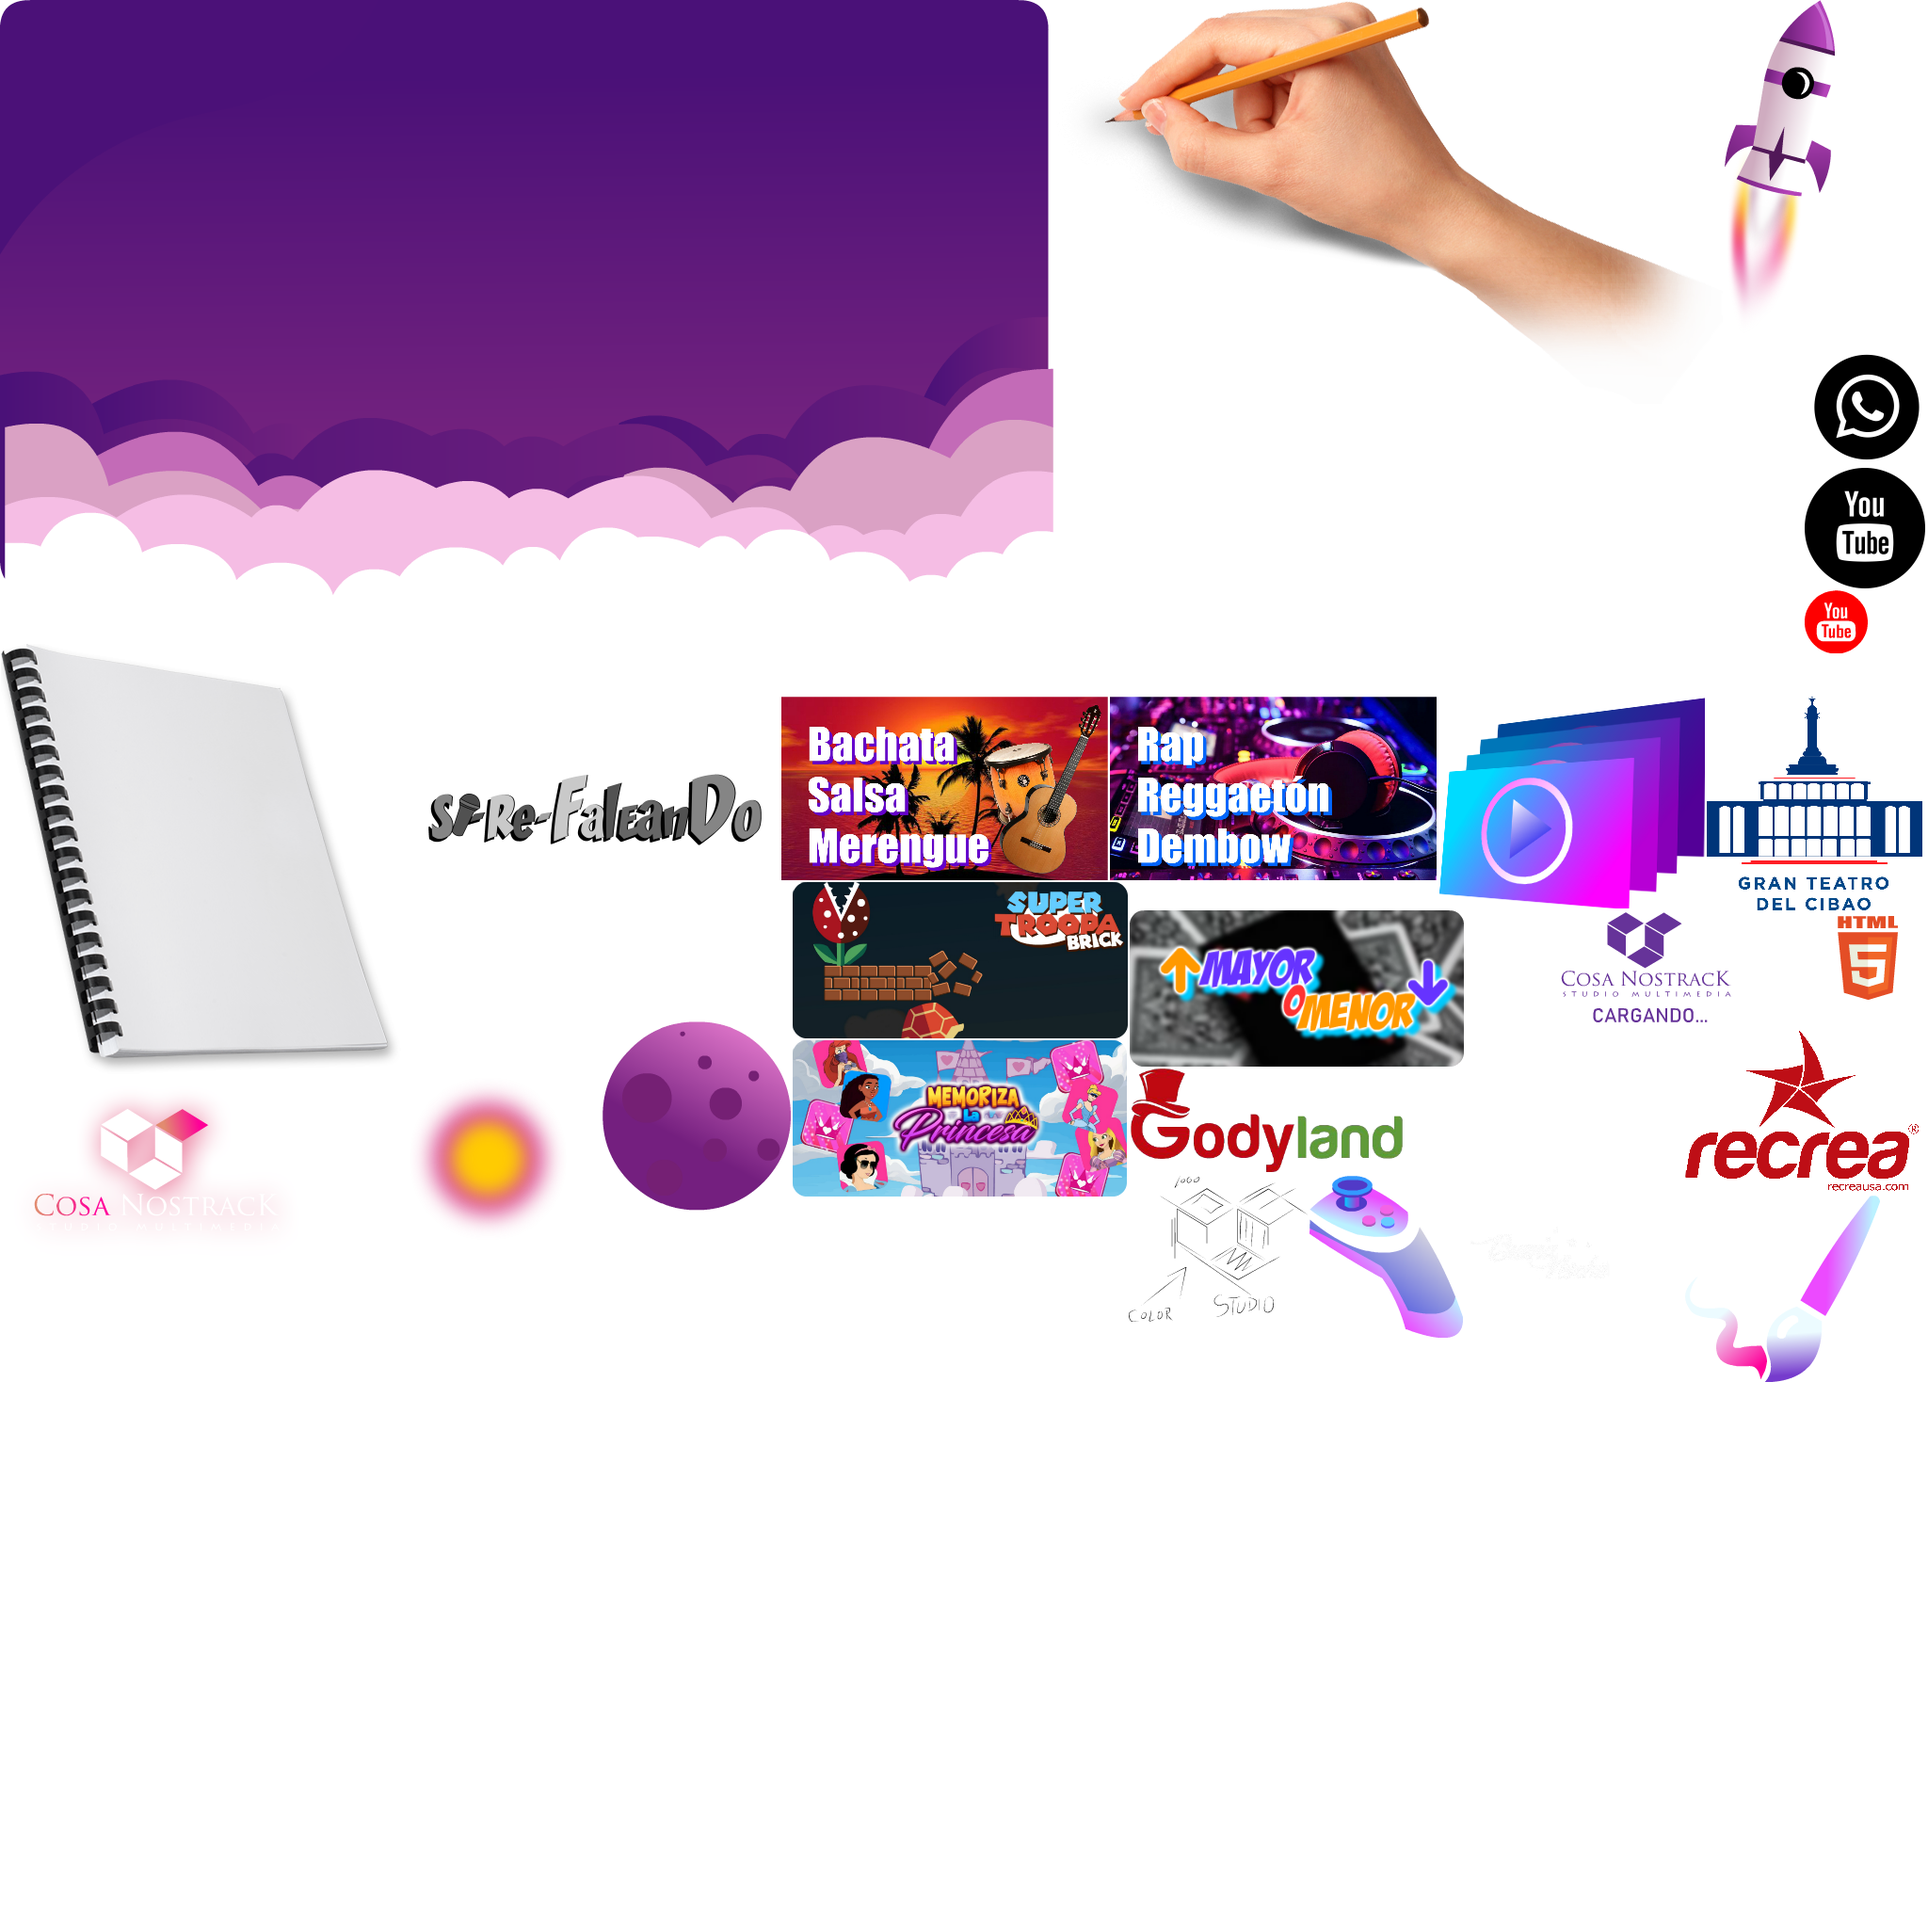
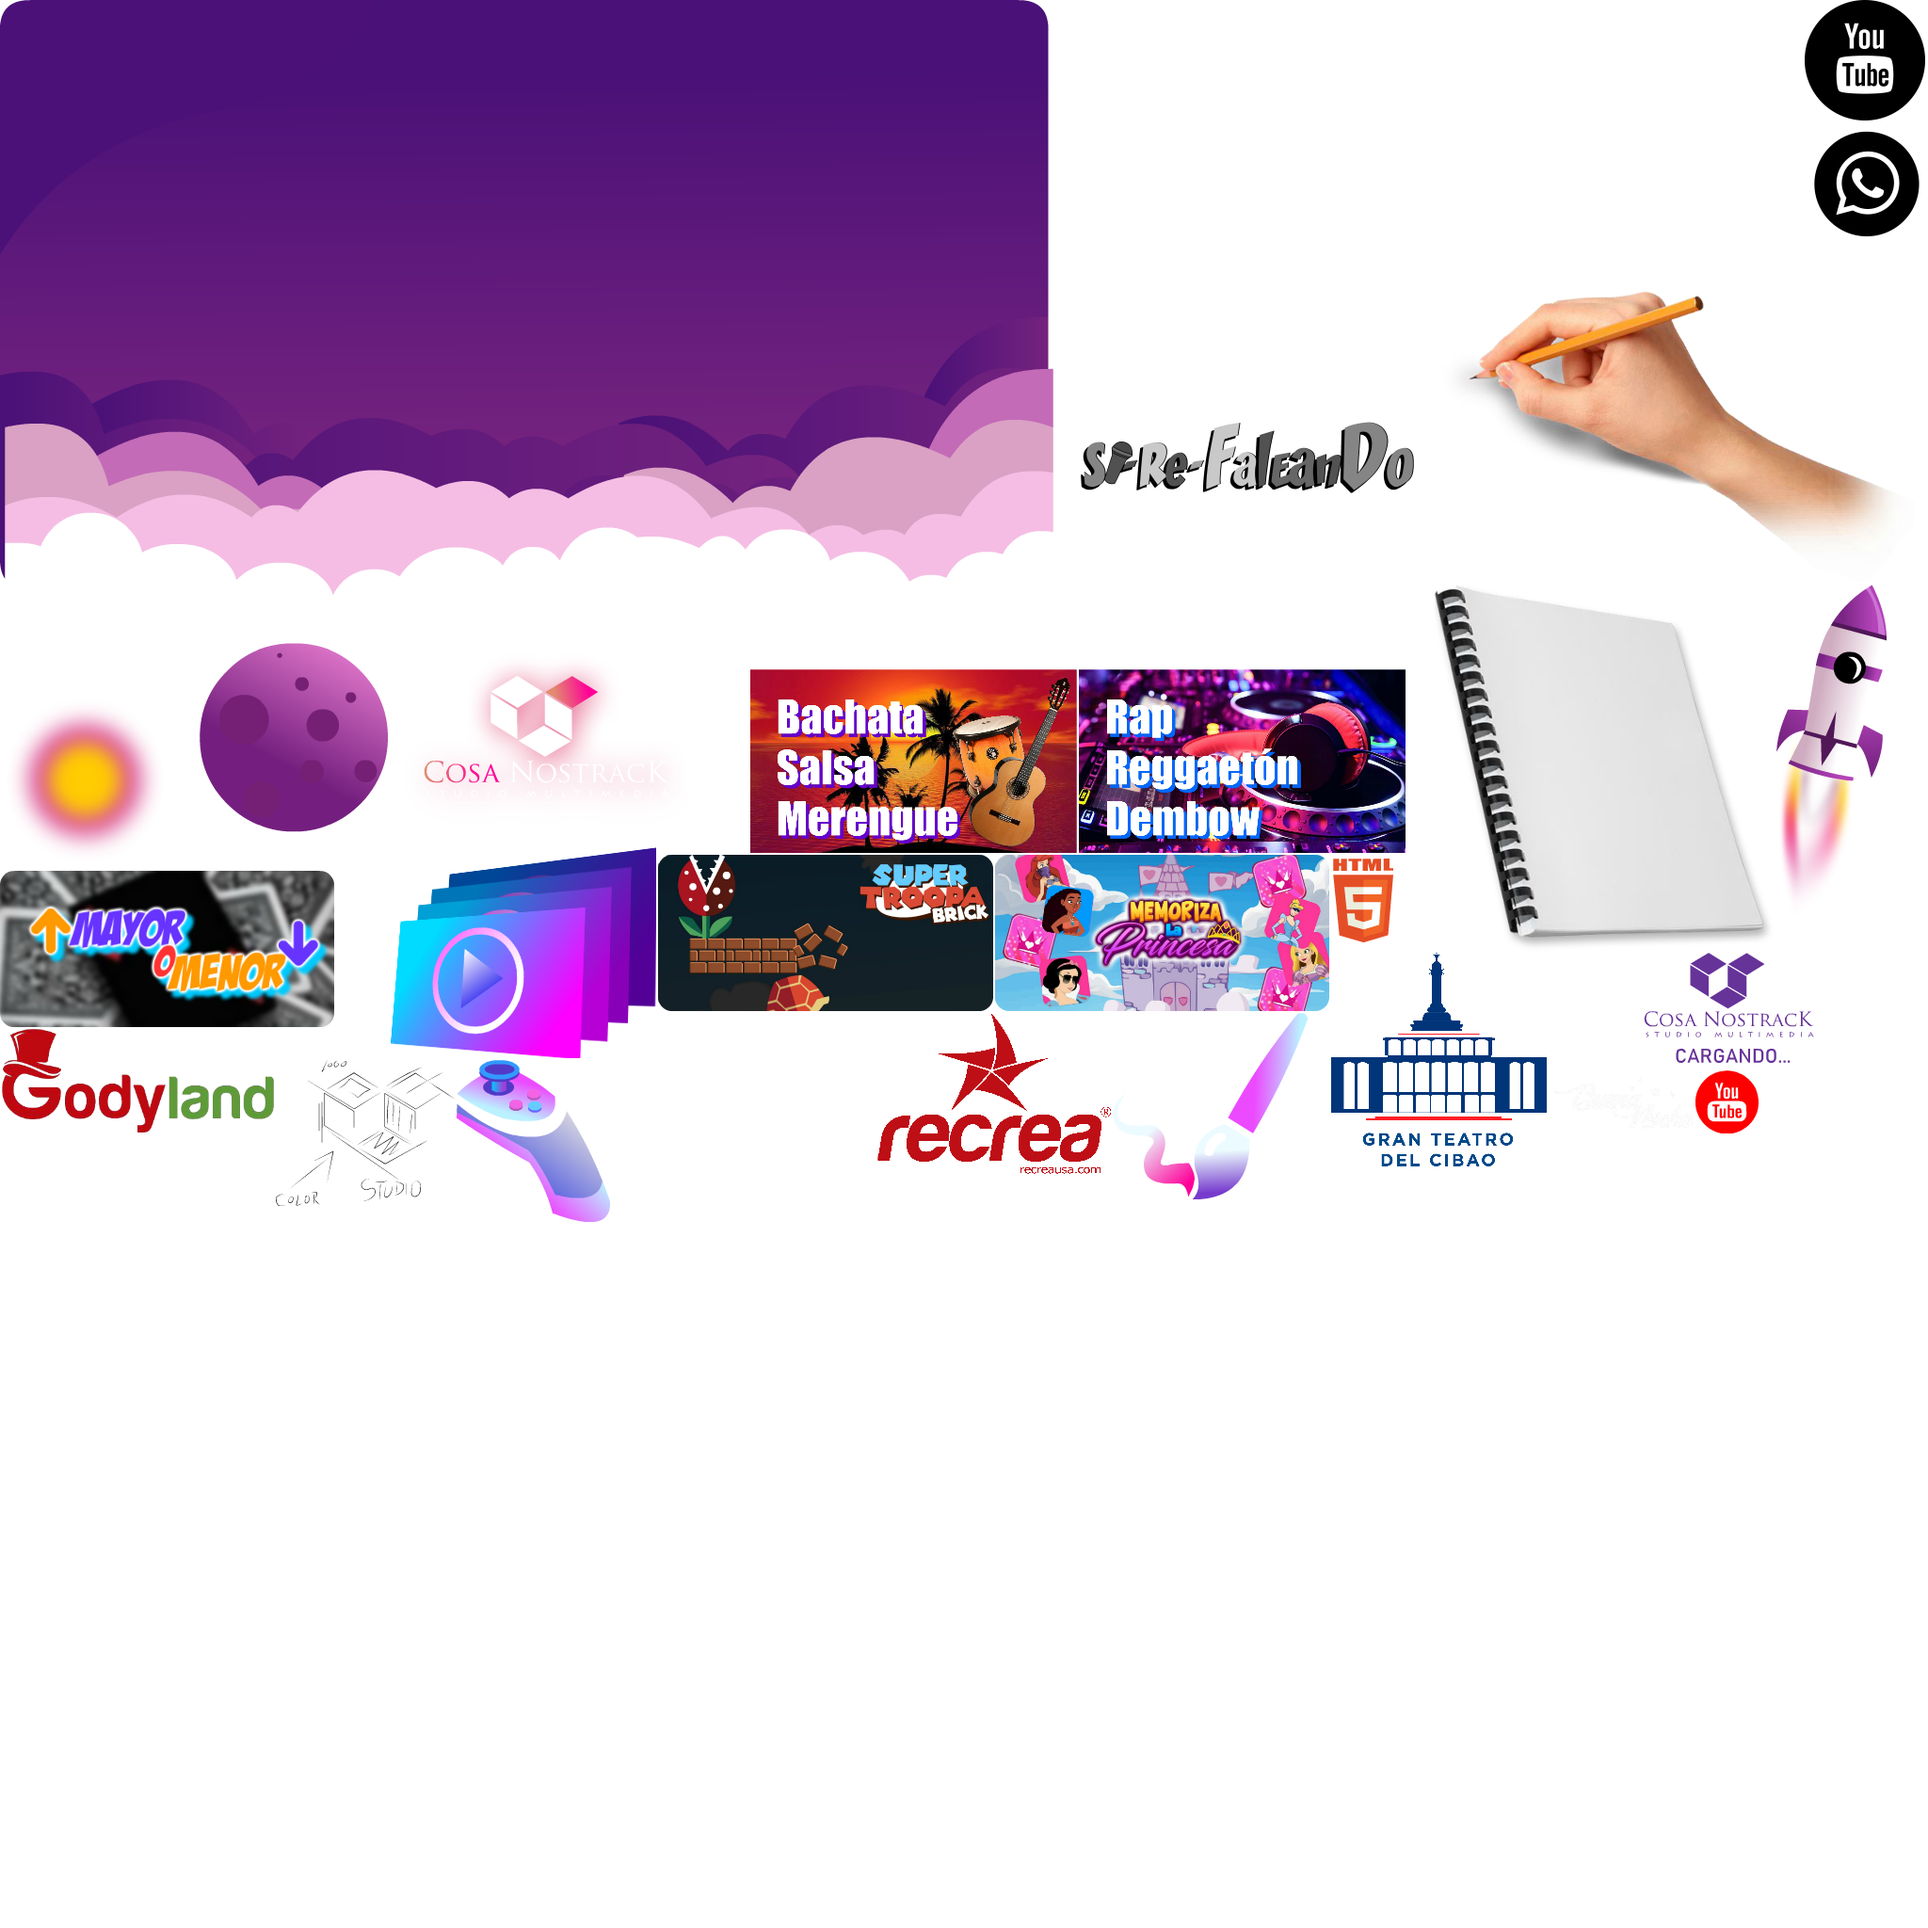
Add files via upload

Changed region(s): [[0.0, 0.0, 1.0, 0.7188], [0.5625, 0.2188, 0.75, 0.25], [0.875, 0.6875, 0.9375, 0.7188]]

diff --git a/lcns/index.js b/lcns/index.js
@@ -2,7 +2,7 @@
 
 var p; // shortcut to reference prototypes
 lib.ssMetadata = [
-		{name:"index_atlas_", frames: [[0,683,426,458],[1528,740,283,225],[1557,1094,231,201],[1813,740,229,227],[1199,1135,291,112],[1790,1094,248,174],[1391,1249,163,172],[1790,1270,207,198],[0,0,1119,681],[1832,0,117,365],[0,1143,381,214],[1121,431,794,307],[428,1085,412,240],[383,1327,379,12],[1557,969,391,123],[1556,1297,154,68],[830,740,347,195],[1179,740,347,195],[1917,627,67,67],[842,1105,355,166],[842,937,356,166],[1950,969,68,93],[1200,967,355,166],[1199,1249,190,155],[1917,497,128,128],[1917,367,128,128],[428,683,400,400],[1121,0,709,429]]}
+		{name:"index_atlas_", frames: [[414,899,283,225],[699,1076,231,201],[1414,1012,229,227],[0,1093,291,112],[932,1076,248,174],[485,1126,163,172],[1182,1076,207,198],[0,0,1119,681],[1887,621,117,365],[414,683,381,214],[1121,0,794,307],[0,683,412,240],[1645,1207,379,12],[1645,1012,391,123],[1645,1137,154,68],[797,711,347,195],[1146,711,347,195],[1801,1137,67,67],[1057,908,355,166],[699,908,356,166],[1414,908,68,93],[0,925,355,166],[293,1126,190,155],[1523,621,362,389],[1523,309,512,310],[1917,0,128,128],[1917,130,128,128],[1121,309,400,400]]}
 ];
 
 
@@ -10,196 +10,196 @@ lib.ssMetadata = [
 
 
 
-(lib._3263265790_sketchpad = function() {
+(lib.Bitmap1 = function() {
 	this.spriteSheet = ss["index_atlas_"];
 	this.gotoAndStop(0);
 }).prototype = p = new cjs.Sprite();
 
 
 
-(lib.Bitmap1 = function() {
+(lib.Bitmap14 = function() {
 	this.spriteSheet = ss["index_atlas_"];
 	this.gotoAndStop(1);
 }).prototype = p = new cjs.Sprite();
 
 
 
-(lib.Bitmap14 = function() {
+(lib.Bitmap15 = function() {
 	this.spriteSheet = ss["index_atlas_"];
 	this.gotoAndStop(2);
 }).prototype = p = new cjs.Sprite();
 
 
 
-(lib.Bitmap15 = function() {
+(lib.Bitmap16 = function() {
 	this.spriteSheet = ss["index_atlas_"];
 	this.gotoAndStop(3);
 }).prototype = p = new cjs.Sprite();
 
 
 
-(lib.Bitmap16 = function() {
+(lib.Bitmap18 = function() {
 	this.spriteSheet = ss["index_atlas_"];
 	this.gotoAndStop(4);
 }).prototype = p = new cjs.Sprite();
 
 
 
-(lib.Bitmap18 = function() {
+(lib.Bitmap19 = function() {
 	this.spriteSheet = ss["index_atlas_"];
 	this.gotoAndStop(5);
 }).prototype = p = new cjs.Sprite();
 
 
 
-(lib.Bitmap19 = function() {
+(lib.Bitmap20 = function() {
 	this.spriteSheet = ss["index_atlas_"];
 	this.gotoAndStop(6);
 }).prototype = p = new cjs.Sprite();
 
 
 
-(lib.Bitmap20 = function() {
+(lib.Bitmap25 = function() {
 	this.spriteSheet = ss["index_atlas_"];
 	this.gotoAndStop(7);
 }).prototype = p = new cjs.Sprite();
 
 
 
-(lib.Bitmap25 = function() {
+(lib.Bitmap27 = function() {
 	this.spriteSheet = ss["index_atlas_"];
 	this.gotoAndStop(8);
 }).prototype = p = new cjs.Sprite();
 
 
 
-(lib.Bitmap27 = function() {
+(lib.Bitmap28 = function() {
 	this.spriteSheet = ss["index_atlas_"];
 	this.gotoAndStop(9);
 }).prototype = p = new cjs.Sprite();
 
 
 
-(lib.Bitmap28 = function() {
+(lib.Bitmap29 = function() {
 	this.spriteSheet = ss["index_atlas_"];
 	this.gotoAndStop(10);
 }).prototype = p = new cjs.Sprite();
 
 
 
-(lib.Bitmap29 = function() {
+(lib.Bitmap32 = function() {
 	this.spriteSheet = ss["index_atlas_"];
 	this.gotoAndStop(11);
 }).prototype = p = new cjs.Sprite();
 
 
 
-(lib.Bitmap32 = function() {
+(lib.Bitmap33 = function() {
 	this.spriteSheet = ss["index_atlas_"];
 	this.gotoAndStop(12);
 }).prototype = p = new cjs.Sprite();
 
 
 
-(lib.Bitmap33 = function() {
+(lib.Bitmap40 = function() {
 	this.spriteSheet = ss["index_atlas_"];
 	this.gotoAndStop(13);
 }).prototype = p = new cjs.Sprite();
 
 
 
-(lib.Bitmap40 = function() {
+(lib.Bitmap42 = function() {
 	this.spriteSheet = ss["index_atlas_"];
 	this.gotoAndStop(14);
 }).prototype = p = new cjs.Sprite();
 
 
 
-(lib.Bitmap42 = function() {
+(lib.Bitmap48 = function() {
 	this.spriteSheet = ss["index_atlas_"];
 	this.gotoAndStop(15);
 }).prototype = p = new cjs.Sprite();
 
 
 
-(lib.Bitmap48 = function() {
+(lib.Bitmap57 = function() {
 	this.spriteSheet = ss["index_atlas_"];
 	this.gotoAndStop(16);
 }).prototype = p = new cjs.Sprite();
 
 
 
-(lib.Bitmap57 = function() {
+(lib.Bitmap60 = function() {
 	this.spriteSheet = ss["index_atlas_"];
 	this.gotoAndStop(17);
 }).prototype = p = new cjs.Sprite();
 
 
 
-(lib.Bitmap60 = function() {
+(lib.Bitmap61 = function() {
 	this.spriteSheet = ss["index_atlas_"];
 	this.gotoAndStop(18);
 }).prototype = p = new cjs.Sprite();
 
 
 
-(lib.Bitmap61 = function() {
+(lib.Bitmap62 = function() {
 	this.spriteSheet = ss["index_atlas_"];
 	this.gotoAndStop(19);
 }).prototype = p = new cjs.Sprite();
 
 
 
-(lib.Bitmap62 = function() {
+(lib.Bitmap64 = function() {
 	this.spriteSheet = ss["index_atlas_"];
 	this.gotoAndStop(20);
 }).prototype = p = new cjs.Sprite();
 
 
 
-(lib.Bitmap64 = function() {
+(lib.Bitmap65 = function() {
 	this.spriteSheet = ss["index_atlas_"];
 	this.gotoAndStop(21);
 }).prototype = p = new cjs.Sprite();
 
 
 
-(lib.Bitmap65 = function() {
+(lib.Bitmap67 = function() {
 	this.spriteSheet = ss["index_atlas_"];
 	this.gotoAndStop(22);
 }).prototype = p = new cjs.Sprite();
 
 
 
-(lib.Bitmap67 = function() {
+(lib.Bitmap68 = function() {
 	this.spriteSheet = ss["index_atlas_"];
 	this.gotoAndStop(23);
 }).prototype = p = new cjs.Sprite();
 
 
 
-(lib.Bitmap7 = function() {
+(lib.Bitmap69 = function() {
 	this.spriteSheet = ss["index_atlas_"];
 	this.gotoAndStop(24);
 }).prototype = p = new cjs.Sprite();
 
 
 
-(lib.iconfinder_23whatsapp_843773 = function() {
+(lib.Bitmap7 = function() {
 	this.spriteSheet = ss["index_atlas_"];
 	this.gotoAndStop(25);
 }).prototype = p = new cjs.Sprite();
 
 
 
-(lib.logo_00000 = function() {
+(lib.iconfinder_23whatsapp_843773 = function() {
 	this.spriteSheet = ss["index_atlas_"];
 	this.gotoAndStop(26);
 }).prototype = p = new cjs.Sprite();
 
 
 
-(lib.PencilHandwriting = function() {
+(lib.logo_00000 = function() {
 	this.spriteSheet = ss["index_atlas_"];
 	this.gotoAndStop(27);
 }).prototype = p = new cjs.Sprite();
@@ -226,14 +226,14 @@ function getMCSymbolPrototype(symbol, nominalBounds, frameBounds) {
 	this.initialize(mode,startPosition,loop,{});
 
 	// Layer 1
-	this.instance = new lib.PencilHandwriting();
+	this.instance = new lib.Bitmap69();
 	this.instance.parent = this;
-	this.instance.setTransform(-256,-154.9,0.722,0.722);
+	this.instance.setTransform(-256,-155);
 
 	this.timeline.addTween(cjs.Tween.get(this.instance).wait(1));
 
 }).prototype = p = new cjs.MovieClip();
-p.nominalBounds = new cjs.Rectangle(-256,-154.9,512.1,309.9);
+p.nominalBounds = new cjs.Rectangle(-256,-155,512,310);
 
 
 (lib.Tween11 = function(mode,startPosition,loop) {
@@ -7193,14 +7193,14 @@ p.nominalBounds = new cjs.Rectangle(0,0,244.3,105.4);
 	this.timeline.addTween(cjs.Tween.get(this.instance_2).wait(135).to({_off:false},0).wait(1));
 
 	// Layer 1
-	this.instance_3 = new lib._3263265790_sketchpad();
+	this.instance_3 = new lib.Bitmap68();
 	this.instance_3.parent = this;
-	this.instance_3.setTransform(416,110,0.849,0.849);
+	this.instance_3.setTransform(416,110);
 
 	this.timeline.addTween(cjs.Tween.get(this.instance_3).wait(136));
 
 }).prototype = p = new cjs.MovieClip();
-p.nominalBounds = new cjs.Rectangle(416,110,361.5,388.7);
+p.nominalBounds = new cjs.Rectangle(416,110,362,389);
 
 
 (lib.Symbol201 = function(mode,startPosition,loop) {
@@ -8304,7 +8304,7 @@ p.nominalBounds = new cjs.Rectangle(-299.8,-101.9,756,232);
 
 	this.timeline.addTween(cjs.Tween.get(this.book).wait(1));
 
-}).prototype = getMCSymbolPrototype(lib.Symbol224, new cjs.Rectangle(51.8,167.9,361.5,388.7), null);
+}).prototype = getMCSymbolPrototype(lib.Symbol224, new cjs.Rectangle(51.8,167.9,362,389), null);
 
 
 (lib.Symbol218 = function(mode,startPosition,loop) {
@@ -8363,7 +8363,7 @@ p.nominalBounds = new cjs.Rectangle(-299.8,-101.9,756,232);
 		this.bt.addEventListener("click", fl_ClickToGoToWebPage);
 		
 		function fl_ClickToGoToWebPage() {
-			window.open("https://www.youtube.com/watch?v=Ph7wi6eFS6o&list=PLH0vO4TpnElxv0f-Tuxvo4f3vV01muL3u", "_blank");
+			window.open("https://www.youtube.com/watch?v=4iBrOX2qwe8&list=PLH0vO4TpnElxv0f-Tuxvo4f3vV01muL3u", "_blank");
 		}
 	}
 
@@ -9359,7 +9359,7 @@ p.nominalBounds = new cjs.Rectangle(-199,-249.5,794,463.5);
 
 
 // stage content:
-(lib.index11 = function(mode,startPosition,loop) {
+(lib.index12 = function(mode,startPosition,loop) {
 	this.initialize(mode,startPosition,loop,{});
 
 	// timeline functions:
@@ -9427,7 +9427,7 @@ lib.properties = {
 	color: "#FFFFFF",
 	opacity: 1.00,
 	manifest: [
-		{src:"images/index_atlas_.png?1660079062689", id:"index_atlas_"}
+		{src:"images/index_atlas_.png?1660099972989", id:"index_atlas_"}
 	],
 	preloads: []
 };

diff --git a/lcns/index.html b/lcns/index.html
@@ -11,7 +11,7 @@
 <head>
 <meta charset="UTF-8">
 <meta name="authoring-tool" content="Adobe_Animate_CC">
-<title>LCNS</title>
+<title>LCN</title>
 <!-- write your code here -->
 <style>
   #animation_container, #_preload_div_ {
@@ -21,7 +21,7 @@
   }
 </style>
 <script src="https://code.createjs.com/createjs-2015.11.26.min.js"></script>
-<script src="index.js?1660079063272"></script>
+<script src="index.js?1660099973563"></script>
 <script>
 var canvas, stage, exportRoot, anim_container, dom_overlay_container, fnStartAnimation;
 function init() {
@@ -48,7 +48,7 @@ function handleComplete(evt) {
 	var preloaderDiv = document.getElementById("_preload_div_");
 	preloaderDiv.style.display = 'none';
 	canvas.style.display = 'block';
-	exportRoot = new lib.index11();
+	exportRoot = new lib.index12();
 	stage = new createjs.Stage(canvas);
 	stage.addChild(exportRoot);	
 	//Registers the "tick" event listener.
@@ -101,6 +101,6 @@ function handleComplete(evt) {
 		<div id="dom_overlay_container" style="pointer-events:none; overflow:hidden; width:950px; height:1700px; position: absolute; left: 0px; top: 0px; display: none;">
 		</div>
 	</div>
-    <div id='_preload_div_' style='display: inline-block; height:1700px; width: 950px; vertical-align=middle;position:absolute;left:0px;top:0px;text-align: center;'>	<span style='display: inline-block; height: 100%; vertical-align: middle;'></span>	<img src=images/_preloader.gif?1660079063273 style='vertical-align: middle; max-height: 100%'/></div>
+    <div id='_preload_div_' style='display: inline-block; height:1700px; width: 950px; vertical-align=middle;position:absolute;left:0px;top:0px;text-align: center;'>	<span style='display: inline-block; height: 100%; vertical-align: middle;'></span>	<img src=images/_preloader.gif?1660099973564 style='vertical-align: middle; max-height: 100%'/></div>
 </body>
 </html>
